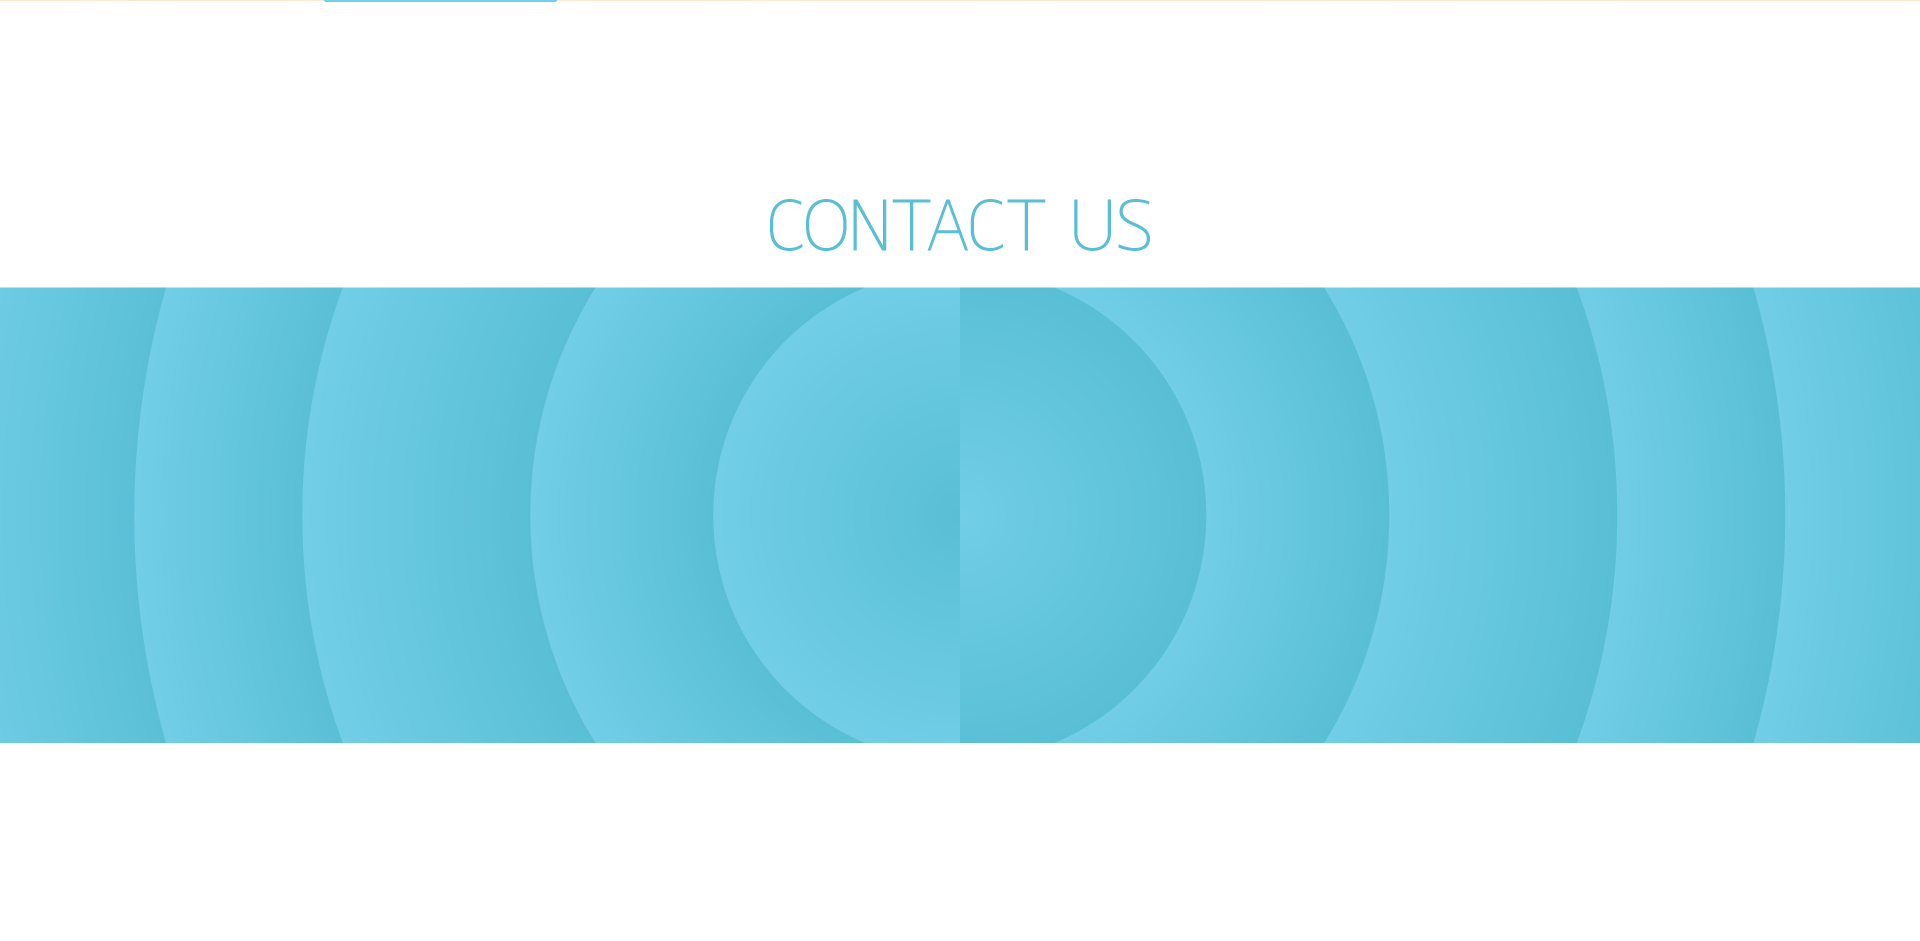
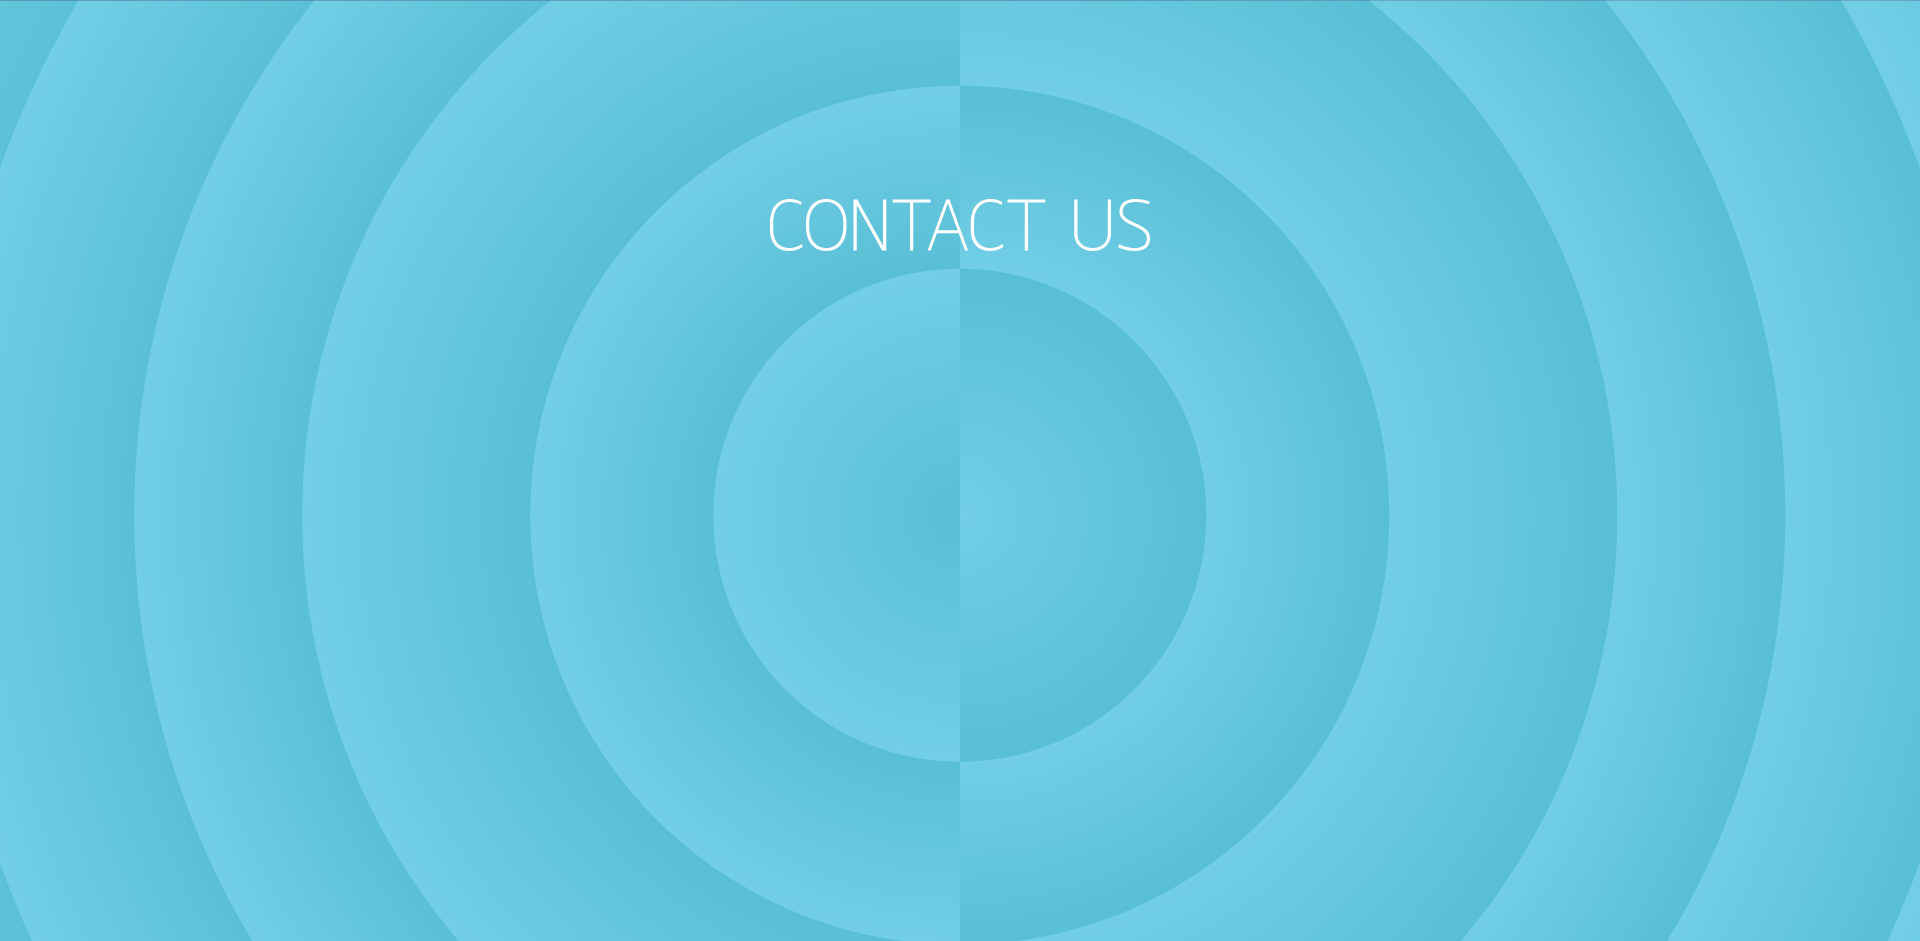
Update background

diff --git a/home-feature/client/sass/home.sass b/home-feature/client/sass/home.sass
@@ -68,7 +68,7 @@ audio, canvas, progress, video
   -webkit-animation-duration: 4s
   -webkit-animation-iteration-count: 3
   animation-name: after
-  animation-duration: 1s
+  animation-duration: 0.5s
   animation-iteration-count: 1
 @-webkit-keyframes after
   0%
@@ -388,6 +388,13 @@ audio, canvas, progress, video
   background-color: #9E9E9E
   height: 100vh
   background-size: cover
+  overflow: hidden
+  img
+    position: absolute
+    margin-top: 13em
+    width: 75em
+    height: 39em
+    border-radius: 2em
 .content-what-ada
   width: 50%
   height: 50%
@@ -396,6 +403,9 @@ audio, canvas, progress, video
   text-align: center
   padding: 2em
   border-radius: 2em
+  z-index: +20
+  box-shadow: .1em .1em rgba(48, 47, 61, 0.2),.2em .2em rgba(48, 47, 61, 0.2),.3em .3em rgba(48, 47, 61, 0.2),.4em .4em rgba(48, 47, 61, 0.2),.5em .5em rgba(48, 47, 61, 0.2),.6em .6em rgba(48, 47, 61, 0.2),.7em .7em rgba(48, 47, 61, 0.2),.8em .8em rgba(48, 47, 61, 0.2),.9em .9em rgba(48, 47, 61, 0.2),1em 1em rgba(48, 47, 61, 0.2),1.1em 1.1em rgba(48, 47, 61, 0.2),1.2em 1.2em rgba(48, 47, 61, 0.2),1.3em 1.3em rgba(48, 47, 61, 0.2),1.4em 1.4em rgba(48, 47, 61, 0.2),1.5em 1.5em rgba(48, 47, 61, 0.2),1.6em 1.6em rgba(48, 47, 61, 0.2),1.7em 1.7em rgba(48, 47, 61, 0.2),1.8em 1.8em rgba(48, 47, 61, 0.2),1.9em 1.9em rgba(48, 47, 61, 0.2),2em 2em rgba(48, 47, 61, 0.2),2.1em 2.1em rgba(48, 47, 61, 0.2),2.2em 2.2em rgba(48, 47, 61, 0.2),2.3em 2.3em rgba(48, 47, 61, 0.2),2.4em 2.4em rgba(48, 47, 61, 0.2),2.5em 2.5em rgba(48, 47, 61, 0.2),2.6em 2.6em rgba(48, 47, 61, 0.2),2.7em 2.7em rgba(48, 47, 61, 0.2),2.8em 2.8em rgba(48, 47, 61, 0.2),2.9em 2.9em rgba(48, 47, 61, 0.2),3em 3em rgba(48, 47, 61, 0.2),3.1em 3.1em rgba(48, 47, 61, 0.2),3.2em 3.2em rgba(48, 47, 61, 0.2),3.3em 3.3em rgba(48, 47, 61, 0.2),3.4em 3.4em rgba(48, 47, 61, 0.2),3.5em 3.5em rgba(48, 47, 61, 0.2),3.6em 3.6em rgba(48, 47, 61, 0.2),3.7em 3.7em rgba(48, 47, 61, 0.2),3.8em 3.8em rgba(48, 47, 61, 0.2),3.9em 3.9em rgba(48, 47, 61, 0.2),4em 4em rgba(48, 47, 61, 0.2),4.1em 4.1em rgba(48, 47, 61, 0.2),4.2em 4.2em rgba(48, 47, 61, 0.2),4.3em 4.3em rgba(48, 47, 61, 0.2),4.4em 4.4em rgba(48, 47, 61, 0.2),4.5em 4.5em rgba(48, 47, 61, 0.2),4.6em 4.6em rgba(48, 47, 61, 0.2),4.7em 4.7em rgba(48, 47, 61, 0.2),4.8em 4.8em rgba(48, 47, 61, 0.2),4.9em 4.9em rgba(48, 47, 61, 0.2),5em 5em rgba(48, 47, 61, 0.2),5.1em 5.1em rgba(48, 47, 61, 0.2),5.2em 5.2em rgba(48, 47, 61, 0.2),5.3em 5.3em rgba(48, 47, 61, 0.2),5.4em 5.4em rgba(48, 47, 61, 0.2),5.5em 5.5em rgba(48, 47, 61, 0.2),5.6em 5.6em rgba(48, 47, 61, 0.2),5.7em 5.7em rgba(48, 47, 61, 0.2),5.8em 5.8em rgba(48, 47, 61, 0.2),5.9em 5.9em rgba(48, 47, 61, 0.2),6em 6em rgba(48, 47, 61, 0.2),6.1em 6.1em rgba(48, 47, 61, 0.2),6.2em 6.2em rgba(48, 47, 61, 0.2),6.3em 6.3em rgba(48, 47, 61, 0.2),6.4em 6.4em rgba(48, 47, 61, 0.2),6.5em 6.5em rgba(48, 47, 61, 0.2),6.6em 6.6em rgba(48, 47, 61, 0.2),6.7em 6.7em rgba(48, 47, 61, 0.2),6.8em 6.8em rgba(48, 47, 61, 0.2),6.9em 6.9em rgba(48, 47, 61, 0.2),7em 7em rgba(48, 47, 61, 0.2),7.1em 7.1em rgba(48, 47, 61, 0.2),7.2em 7.2em rgba(48, 47, 61, 0.2),7.3em 7.3em rgba(48, 47, 61, 0.2),7.4em 7.4em rgba(48, 47, 61, 0.2),7.5em 7.5em rgba(48, 47, 61, 0.2),7.6em 7.6em rgba(48, 47, 61, 0.2),7.7em 7.7em rgba(48, 47, 61, 0.2),7.8em 7.8em rgba(48, 47, 61, 0.2),7.9em 7.9em rgba(48, 47, 61, 0.2),8em 8em rgba(48, 47, 61, 0.2),8.1em 8.1em rgba(48, 47, 61, 0.2),8.2em 8.2em rgba(48, 47, 61, 0.2),8.3em 8.3em rgba(48, 47, 61, 0.2),8.4em 8.4em rgba(48, 47, 61, 0.2),8.5em 8.5em rgba(48, 47, 61, 0.2),8.6em 8.6em rgba(48, 47, 61, 0.2),8.7em 8.7em rgba(48, 47, 61, 0.2),8.8em 8.8em rgba(48, 47, 61, 0.2),8.9em 8.9em rgba(48, 47, 61, 0.2),9em 9em rgba(48, 47, 61, 0.2),9.1em 9.1em rgba(48, 47, 61, 0.2),9.2em 9.2em rgba(48, 47, 61, 0.2),9.3em 9.3em rgba(48, 47, 61, 0.2),9.4em 9.4em rgba(48, 47, 61, 0.2),9.5em 9.5em rgba(48, 47, 61, 0.2),9.6em 9.6em rgba(48, 47, 61, 0.2),9.7em 9.7em rgba(48, 47, 61, 0.2),9.8em 9.8em rgba(48, 47, 61, 0.2),9.9em 9.9em rgba(48, 47, 61, 0.2),10em 10em rgba(48, 47, 61, 0.2),10.1em 10.1em rgba(48, 47, 61, 0.2),10.2em 10.2em rgba(48, 47, 61, 0.2),10.3em 10.3em rgba(48, 47, 61, 0.2),10.4em 10.4em rgba(48, 47, 61, 0.2),10.5em 10.5em rgba(48, 47, 61, 0.2),10.6em 10.6em rgba(48, 47, 61, 0.2),10.7em 10.7em rgba(48, 47, 61, 0.2),10.8em 10.8em rgba(48, 47, 61, 0.2),10.9em 10.9em rgba(48, 47, 61, 0.2),11em 11em rgba(48, 47, 61, 0.2),11.1em 11.1em rgba(48, 47, 61, 0.2),11.2em 11.2em rgba(48, 47, 61, 0.2),11.3em 11.3em rgba(48, 47, 61, 0.2),11.4em 11.4em rgba(48, 47, 61, 0.2),11.5em 11.5em rgba(48, 47, 61, 0.2),11.6em 11.6em rgba(48, 47, 61, 0.2),11.7em 11.7em rgba(48, 47, 61, 0.2),11.8em 11.8em rgba(48, 47, 61, 0.2),11.9em 11.9em rgba(48, 47, 61, 0.2),12em 12em rgba(48, 47, 61, 0.2),12.1em 12.1em rgba(48, 47, 61, 0.2),12.2em 12.2em rgba(48, 47, 61, 0.2),12.3em 12.3em rgba(48, 47, 61, 0.2),12.4em 12.4em rgba(48, 47, 61, 0.2),12.5em 12.5em rgba(48, 47, 61, 0.2),12.6em 12.6em rgba(48, 47, 61, 0.2),12.7em 12.7em rgba(48, 47, 61, 0.2),12.8em 12.8em rgba(48, 47, 61, 0.2),12.9em 12.9em rgba(48, 47, 61, 0.2),13em 13em rgba(48, 47, 61, 0.2),13.1em 13.1em rgba(48, 47, 61, 0.2),13.2em 13.2em rgba(48, 47, 61, 0.2),13.3em 13.3em rgba(48, 47, 61, 0.2),13.4em 13.4em rgba(48, 47, 61, 0.2),13.5em 13.5em rgba(48, 47, 61, 0.2),13.6em 13.6em rgba(48, 47, 61, 0.2),13.7em 13.7em rgba(48, 47, 61, 0.2),13.8em 13.8em rgba(48, 47, 61, 0.2),13.9em 13.9em rgba(48, 47, 61, 0.2),14em 14em rgba(48, 47, 61, 0.2),14.1em 14.1em rgba(48, 47, 61, 0.2),14.2em 14.2em rgba(48, 47, 61, 0.2),14.3em 14.3em rgba(48, 47, 61, 0.2),14.4em 14.4em rgba(48, 47, 61, 0.2),14.5em 14.5em rgba(48, 47, 61, 0.2),14.6em 14.6em rgba(48, 47, 61, 0.2),14.7em 14.7em rgba(48, 47, 61, 0.2),14.8em 14.8em rgba(48, 47, 61, 0.2),14.9em 14.9em rgba(48, 47, 61, 0.2),15em 15em rgba(48, 47, 61, 0.2),15.1em 15.1em rgba(48, 47, 61, 0.2),15.2em 15.2em rgba(48, 47, 61, 0.2),15.3em 15.3em rgba(48, 47, 61, 0.2),15.4em 15.4em rgba(48, 47, 61, 0.2),15.5em 15.5em rgba(48, 47, 61, 0.2),15.6em 15.6em rgba(48, 47, 61, 0.2),15.7em 15.7em rgba(48, 47, 61, 0.2),15.8em 15.8em rgba(48, 47, 61, 0.2),15.9em 15.9em rgba(48, 47, 61, 0.2),16em 16em rgba(48, 47, 61, 0.2),16.1em 16.1em rgba(48, 47, 61, 0.2),16.2em 16.2em rgba(48, 47, 61, 0.2),16.3em 16.3em rgba(48, 47, 61, 0.2),16.4em 16.4em rgba(48, 47, 61, 0.2),16.5em 16.5em rgba(48, 47, 61, 0.2),16.6em 16.6em rgba(48, 47, 61, 0.2),16.7em 16.7em rgba(48, 47, 61, 0.2),16.8em 16.8em rgba(48, 47, 61, 0.2),16.9em 16.9em rgba(48, 47, 61, 0.2),17em 17em rgba(48, 47, 61, 0.2),17.1em 17.1em rgba(48, 47, 61, 0.2),17.2em 17.2em rgba(48, 47, 61, 0.2),17.3em 17.3em rgba(48, 47, 61, 0.2),17.4em 17.4em rgba(48, 47, 61, 0.2),17.5em 17.5em rgba(48, 47, 61, 0.2),17.6em 17.6em rgba(48, 47, 61, 0.2),17.7em 17.7em rgba(48, 47, 61, 0.2),17.8em 17.8em rgba(48, 47, 61, 0.2),17.9em 17.9em rgba(48, 47, 61, 0.2),18em 18em rgba(48, 47, 61, 0.2),18.1em 18.1em rgba(48, 47, 61, 0.2),18.2em 18.2em rgba(48, 47, 61, 0.2),18.3em 18.3em rgba(48, 47, 61, 0.2),18.4em 18.4em rgba(48, 47, 61, 0.2),18.5em 18.5em rgba(48, 47, 61, 0.2),18.6em 18.6em rgba(48, 47, 61, 0.2),18.7em 18.7em rgba(48, 47, 61, 0.2),18.8em 18.8em rgba(48, 47, 61, 0.2),18.9em 18.9em rgba(48, 47, 61, 0.2),19em 19em rgba(48, 47, 61, 0.2),19.1em 19.1em rgba(48, 47, 61, 0.2),19.2em 19.2em rgba(48, 47, 61, 0.2),19.3em 19.3em rgba(48, 47, 61, 0.2),19.4em 19.4em rgba(48, 47, 61, 0.2),19.5em 19.5em rgba(48, 47, 61, 0.2),19.6em 19.6em rgba(48, 47, 61, 0.2),19.7em 19.7em rgba(48, 47, 61, 0.2),19.8em 19.8em rgba(48, 47, 61, 0.2),19.9em 19.9em rgba(48, 47, 61, 0.2),20em 20em rgba(48, 47, 61, 0.2),20.1em 20.1em rgba(48, 47, 61, 0.2),20.2em 20.2em rgba(48, 47, 61, 0.2),20.3em 20.3em rgba(48, 47, 61, 0.2),20.4em 20.4em rgba(48, 47, 61, 0.2),20.5em 20.5em rgba(48, 47, 61, 0.2),20.6em 20.6em rgba(48, 47, 61, 0.2),20.7em 20.7em rgba(48, 47, 61, 0.2),20.8em 20.8em rgba(48, 47, 61, 0.2),20.9em 20.9em rgba(48, 47, 61, 0.2),21em 21em rgba(48, 47, 61, 0.2),21.1em 21.1em rgba(48, 47, 61, 0.2),21.2em 21.2em rgba(48, 47, 61, 0.2),21.3em 21.3em rgba(48, 47, 61, 0.2),21.4em 21.4em rgba(48, 47, 61, 0.2),21.5em 21.5em rgba(48, 47, 61, 0.2),21.6em 21.6em rgba(48, 47, 61, 0.2),21.7em 21.7em rgba(48, 47, 61, 0.2),21.8em 21.8em rgba(48, 47, 61, 0.2),21.9em 21.9em rgba(48, 47, 61, 0.2),22em 22em rgba(48, 47, 61, 0.2),22.1em 22.1em rgba(48, 47, 61, 0.2),22.2em 22.2em rgba(48, 47, 61, 0.2),22.3em 22.3em rgba(48, 47, 61, 0.2),22.4em 22.4em rgba(48, 47, 61, 0.2),22.5em 22.5em rgba(48, 47, 61, 0.2),22.6em 22.6em rgba(48, 47, 61, 0.2),22.7em 22.7em rgba(48, 47, 61, 0.2),22.8em 22.8em rgba(48, 47, 61, 0.2),22.9em 22.9em rgba(48, 47, 61, 0.2),23em 23em rgba(48, 47, 61, 0.2),23.1em 23.1em rgba(48, 47, 61, 0.2),23.2em 23.2em rgba(48, 47, 61, 0.2),23.3em 23.3em rgba(48, 47, 61, 0.2),23.4em 23.4em rgba(48, 47, 61, 0.2),23.5em 23.5em rgba(48, 47, 61, 0.2),23.6em 23.6em rgba(48, 47, 61, 0.2),23.7em 23.7em rgba(48, 47, 61, 0.2),23.8em 23.8em rgba(48, 47, 61, 0.2),23.9em 23.9em rgba(48, 47, 61, 0.2),24em 24em rgba(48, 47, 61, 0.2),24.1em 24.1em rgba(48, 47, 61, 0.2),24.2em 24.2em rgba(48, 47, 61, 0.2),24.3em 24.3em rgba(48, 47, 61, 0.2),24.4em 24.4em rgba(48, 47, 61, 0.2),24.5em 24.5em rgba(48, 47, 61, 0.2),24.6em 24.6em rgba(48, 47, 61, 0.2),24.7em 24.7em rgba(48, 47, 61, 0.2),24.8em 24.8em rgba(48, 47, 61, 0.2),24.9em 24.9em rgba(48, 47, 61, 0.2),25em 25em rgba(48, 47, 61, 0.2),25.1em 25.1em rgba(48, 47, 61, 0.2),25.2em 25.2em rgba(48, 47, 61, 0.2),25.3em 25.3em rgba(48, 47, 61, 0.2),25.4em 25.4em rgba(48, 47, 61, 0.2),25.5em 25.5em rgba(48, 47, 61, 0.2),25.6em 25.6em rgba(48, 47, 61, 0.2),25.7em 25.7em rgba(48, 47, 61, 0.2),25.8em 25.8em rgba(48, 47, 61, 0.2),25.9em 25.9em rgba(48, 47, 61, 0.2),26em 26em rgba(48, 47, 61, 0.2)
+
   h1
     font-size: 55px
     font-weight: lighter
@@ -433,10 +443,10 @@ audio, canvas, progress, video
 .icon-play
   img
     opacity: 0.8
-    height: 14em
+    height: 20em
     width: auto
-    margin-top: 8em
-    margin-left: -10em
+    margin-top: 2em
+    margin-left: -8em
 .ui.button.learn-more-button
   background-color: #59BFD5
   color: #fff
@@ -453,11 +463,19 @@ audio, canvas, progress, video
 
 ///About Segment
 .aboutus-segment
-  background: url('/images/about-us.png')
+  background: url('/images/about/about-bg.png')
   background-color: #FFB74D
   height: 100vh
   background-size: cover
+  display: flex
+  align-items: center
 
+.founder-one
+  position: relative
+  margin-left: 71.2em
+  img
+    width: 12em
+    height: auto
 
 ///Contact Segment
 .contact-segment
@@ -483,8 +501,3 @@ audio, canvas, progress, video
   background-color: #FFB74D
   height: 100vh
   background-size: cover
-
-.founder-one
-  position: relative
-  margin-left: 82.9em
-  padding-top: 25.9em

diff --git a/home-feature/client/templates/aboutus.jsx b/home-feature/client/templates/aboutus.jsx
@@ -1,15 +1,24 @@
 AboutUs = React.createClass({
 
-
-
+  componentDidMount(){
+    $('.founder-one').hover(function(){
+      $('.shape').shape('flip back');
+    })
+  },
 
   render(){
     return(
       <div id="aboutUsSegment" className="aboutus-segment">
         <div className="founder-one">
-          <div className="ui small circular rotate left reveal image">
-            <img src="/images/partner/back-img.jpg" className="visible content"/>
-            <img src="/images/partner/front-img.gif" className="hidden content"/>
+          <div className="ui shape">
+            <div className="sides">
+              <div className="active side">
+                <img className="ui circular image" src="/images/partner/back-img.jpg"/>
+              </div>
+              <div className="side">
+                <img className="ui circular image" src="/images/partner/front-img.gif"/>
+              </div>
+            </div>
           </div>
         </div>
       </div>
